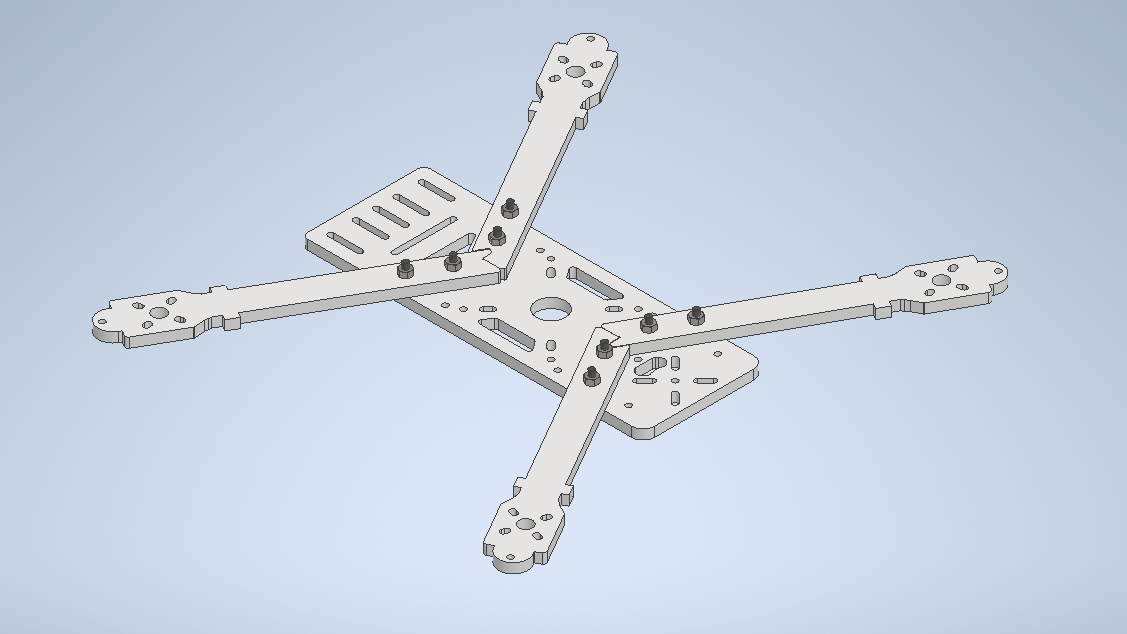
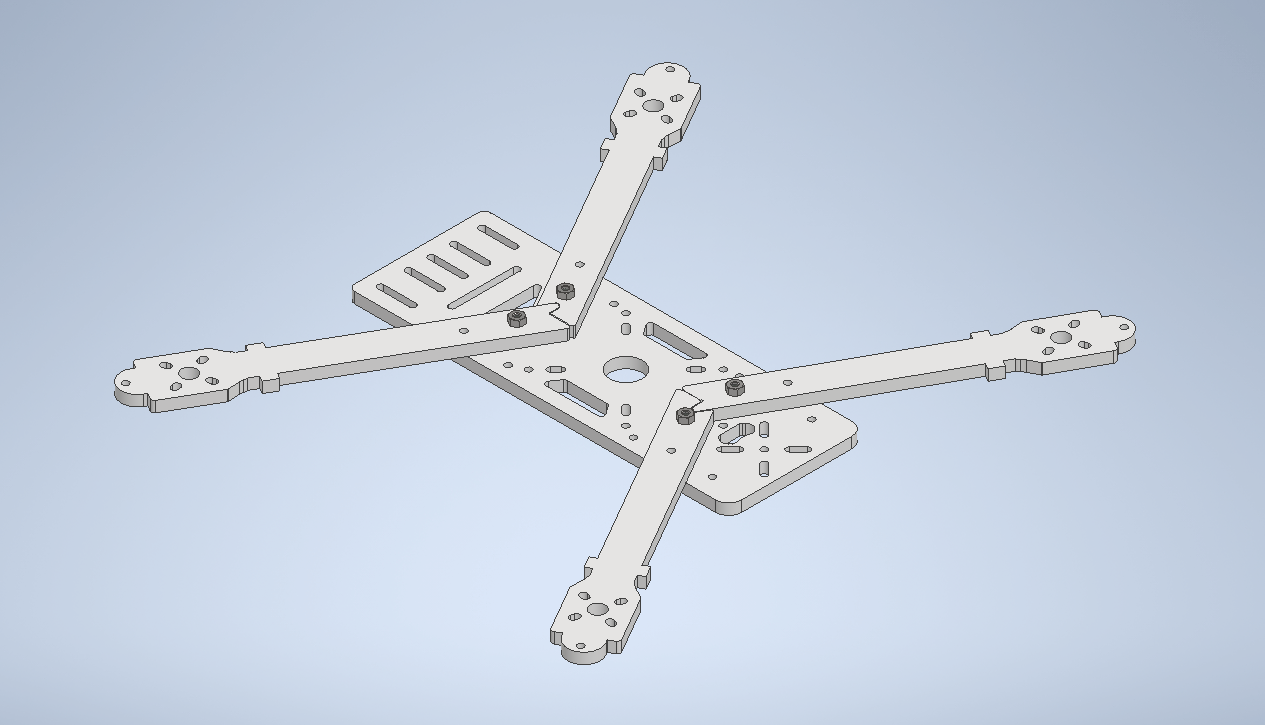
изменения в сборке

Changed region(s): [[0.0621, 0.03, 0.9006, 0.929]]

diff --git a/docs/ru/assembly.md b/docs/ru/assembly.md
@@ -2,12 +2,12 @@
 
 ### Перечень крепежа
 
-|Название|Количство|
+|Название|Количство (шт)|
 |--------|---------|
-|Винт M3x6| 36 |
-|Винт M3x6 (HEX)| 8 |
+|Винт M3x6| 28 |
+|Винт M3x8 (НЕX)| 46 |
 |Винт M3x12| 6 |
-|Винт M3x8 (НЕX)| 38 |
+|Винт M3x14 (НЕX)| 8 |
 |Гайка M3| 4 |
 |Гайка нейлоновая M3| 2 |
 |Стойка нейлоновая 5мм| 16 |
@@ -18,27 +18,52 @@
 |Стойка металлическая 40мм | 4 |
 
 ### Сборка
-1. Соединяем 4 луча с центарльной декой, фиксируя их при помощи винтов M3x12 и закрепляя гайками M3
+
+1. Соединяем 4 луча с центарльной декой, закрепляя их только на центральных отверстиях четрырьмя винтами M3x14 (HEX) и металлическими гайками M3.
 
 ![center_plate](assets/neural_network_train/assembly/1.png)
 
-2. Устанавливаем моторы на соответствующие отверстия в луче при помощи винтов M3x6. 
+2. На нижней части центральной платформы установите металлические стойки 10мм закрепляя винтами M3x8 (НЕX)
+
+3. Устанавливаем моторы на соответствующие отверстия в луче при помощи винтов M3x6. 
 
 ![motor](assets/neural_network_train/assembly/2.png)
 
 *Убедитесь, что винты не касаются мотора.*
 
-3. Установите ножки, закрепляя их между собой нейлоновыми стойками 15мм и винтами M3x6
 
-![leg](assets/neural_network_train/assembly/4.png)
+4. Сборка ножек
 
-4. На нейлоновые стойки по 5мм устанавливаем регулятор скорости, закрепляем при помощи нейлоновых гаек
+    4.1 Закрепите нейлоновые стойки 15мм на одну из половин ножки используя винт M3x6
+
+    ![3.1](assets/neural_network_train/assembly/3.1.png)
+
+    4.2 Установите получившуюся конструкцию на луч дрона, закрепляя винтами M3x6 со второй частью.
+
+    ![leg](assets/neural_network_train/assembly/4.png)
+
+
+5. Сборка и установка полётного контроллера (FC) и регулятора оборотов (ESC)
+
+    5.1 На центральную раму устанавливаем 4 нейлоновые стойки 6мм, закрепляя их винтами M3x8 (HEX)
+
+    5.2 Установите ESC и припаяйте к нему моторы
+
+    5.3 Установите FC и закрепите винтами M3x12
+
+    5.4 
 
 ![8](assets/neural_network_train/assembly/8.png)
 
-5. Установите малую деку над регулятором на нейлоновые стойки 4мм при помощи винтов M3x6 с потайной головкой
+6. Установите металлические стойки 40мм на лучах, фиксируя винтами M3x14 (HEX).На них закрепите верхнюю платформу используя винты M3x8 (НЕX)
 
-6. Склейте 2–3 слоя двустороннего скотча, приклейте его в центр малой деки и установите полётный контроллер
+7. Установка Orange Pi 5
+
+    7.1 На нижнюю платформу для Orange Pi установите нейлоновые стойки M3(10мм + 6мм) и закрепите винтами M3x8 (НЕX)
+
+    7.2 Закрепите полученнйю платформу на стойки, установленные на втором этапе
+
+    7.3 Закрепите Orange Pi
 
 7. Платформу для Orange Pi 5 закрепляем при помощи металлических стоек 4мм к нижней части центральной деки. Саму плату устанавливаем на нейлоновые стойки по 6мм
 
